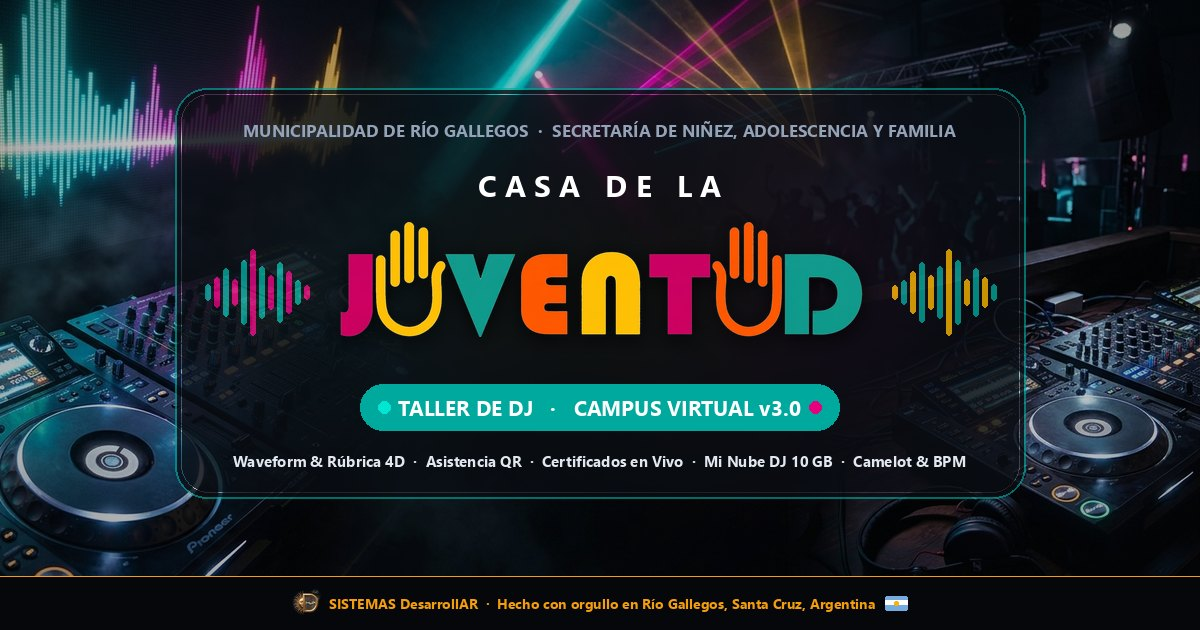
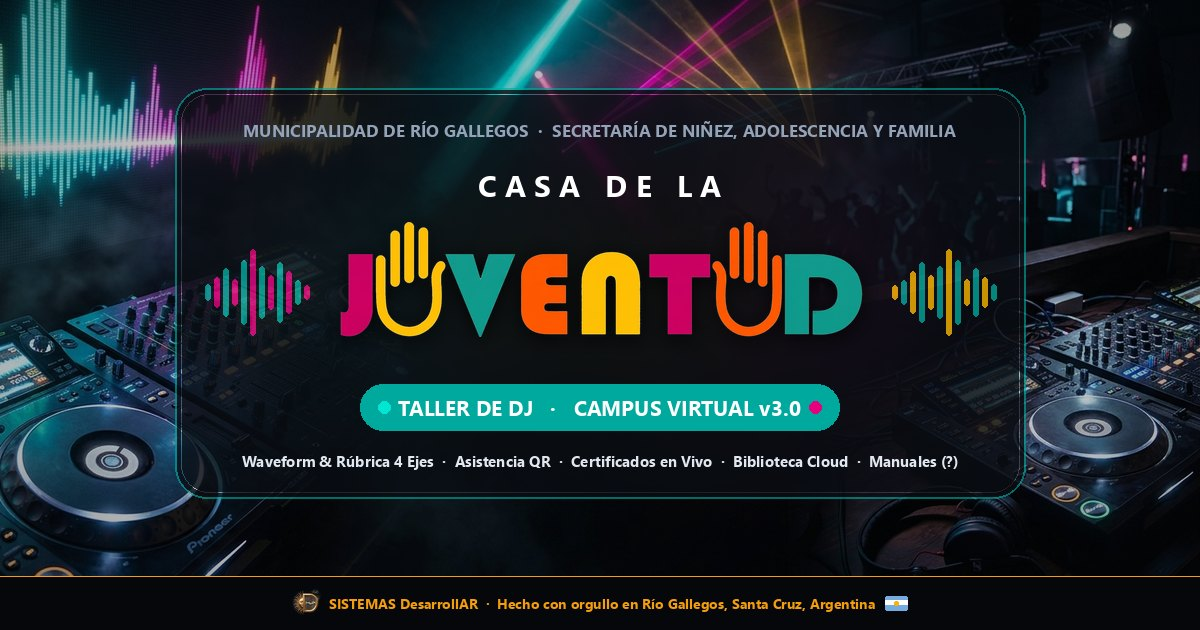
fix(og): align WhatsApp header and OG description with exact Campus v3.0 modules

Changed region(s): [[0.185, 0.7238, 0.8017, 0.754]]

diff --git a/campus.html b/campus.html
@@ -4,22 +4,22 @@
 <meta charset="UTF-8">
 <meta name="viewport" content="width=device-width, initial-scale=1.0">
 <title>Campus Virtual · Taller de DJ | Casa de la Juventud</title>
-<meta name="description" content="Campus Virtual Universitario v3.0 del Taller de DJ — Casa de la Juventud · Municipalidad de Río Gallegos. Corrección por Waveform, Asistencia QR, Certificados en Vivo y Nube DJ.">
+<meta name="description" content="Campus Virtual Universitario v3.0 del Taller de DJ — Casa de la Juventud · Municipalidad de Río Gallegos. Corrección por Waveform, Rúbrica 4 Ejes, Asistencia QR, Certificados en Vivo y Biblioteca Cloud.">
 <meta property="og:type" content="website">
 <meta property="og:site_name" content="Casa de la Juventud · Municipalidad de Río Gallegos">
 <meta property="og:title" content="🎧 Campus Virtual v3.0 · Taller de DJ — Casa de la Juventud">
-<meta property="og:description" content="Plataforma LMS con Waveform & Rúbrica 4D, Asistencia QR en vivo, Certificados Oficiales, Mi Nube DJ (10 GB) y Rueda de Camelot.">
+<meta property="og:description" content="Cabina Waveform & Rúbrica 4 Ejes, Asistencia QR en vivo, Estudio de Certificados QR, Biblioteca Cloud (hasta 100 MB por archivo) y Manuales Interactivos.">
 <meta property="og:url" content="https://cursodj.desarrollar.online/campus">
-<meta property="og:image" content="https://cursodj.desarrollar.online/og-whatsapp-campus.jpg">
-<meta property="og:image:secure_url" content="https://cursodj.desarrollar.online/og-whatsapp-campus.jpg">
+<meta property="og:image" content="https://cursodj.desarrollar.online/og-whatsapp-campus.jpg?v=4">
+<meta property="og:image:secure_url" content="https://cursodj.desarrollar.online/og-whatsapp-campus.jpg?v=4">
 <meta property="og:image:type" content="image/jpeg">
 <meta property="og:image:width" content="1200">
 <meta property="og:image:height" content="630">
-<link rel="image_src" href="https://cursodj.desarrollar.online/og-whatsapp-campus.jpg">
+<link rel="image_src" href="https://cursodj.desarrollar.online/og-whatsapp-campus.jpg?v=4">
 <meta name="twitter:card" content="summary_large_image">
 <meta name="twitter:title" content="🎧 Campus Virtual v3.0 · Taller de DJ — Casa de la Juventud">
-<meta name="twitter:description" content="Plataforma LMS con Waveform & Rúbrica 4D, Asistencia QR en vivo, Certificados Oficiales, Mi Nube DJ (10 GB) y Rueda de Camelot.">
-<meta name="twitter:image" content="https://cursodj.desarrollar.online/og-whatsapp-campus.jpg">
+<meta name="twitter:description" content="Cabina Waveform & Rúbrica 4 Ejes, Asistencia QR en vivo, Estudio de Certificados QR, Biblioteca Cloud (hasta 100 MB por archivo) y Manuales Interactivos.">
+<meta name="twitter:image" content="https://cursodj.desarrollar.online/og-whatsapp-campus.jpg?v=4">
 <script src="https://cdn.tailwindcss.com"></script>
 <link href="https://fonts.googleapis.com/css2?family=Fredoka:wght@500;600;700&family=Outfit:wght@300;400;500;600;800&family=JetBrains+Mono&display=swap" rel="stylesheet">
 <style>

diff --git a/docs/campus.html b/docs/campus.html
@@ -4,22 +4,22 @@
 <meta charset="UTF-8">
 <meta name="viewport" content="width=device-width, initial-scale=1.0">
 <title>Campus Virtual · Taller de DJ | Casa de la Juventud</title>
-<meta name="description" content="Campus Virtual Universitario v3.0 del Taller de DJ — Casa de la Juventud · Municipalidad de Río Gallegos. Corrección por Waveform, Asistencia QR, Certificados en Vivo y Nube DJ.">
+<meta name="description" content="Campus Virtual Universitario v3.0 del Taller de DJ — Casa de la Juventud · Municipalidad de Río Gallegos. Corrección por Waveform, Rúbrica 4 Ejes, Asistencia QR, Certificados en Vivo y Biblioteca Cloud.">
 <meta property="og:type" content="website">
 <meta property="og:site_name" content="Casa de la Juventud · Municipalidad de Río Gallegos">
 <meta property="og:title" content="🎧 Campus Virtual v3.0 · Taller de DJ — Casa de la Juventud">
-<meta property="og:description" content="Plataforma LMS con Waveform & Rúbrica 4D, Asistencia QR en vivo, Certificados Oficiales, Mi Nube DJ (10 GB) y Rueda de Camelot.">
+<meta property="og:description" content="Cabina Waveform & Rúbrica 4 Ejes, Asistencia QR en vivo, Estudio de Certificados QR, Biblioteca Cloud (hasta 100 MB por archivo) y Manuales Interactivos.">
 <meta property="og:url" content="https://cursodj.desarrollar.online/campus">
-<meta property="og:image" content="https://cursodj.desarrollar.online/og-whatsapp-campus.jpg">
-<meta property="og:image:secure_url" content="https://cursodj.desarrollar.online/og-whatsapp-campus.jpg">
+<meta property="og:image" content="https://cursodj.desarrollar.online/og-whatsapp-campus.jpg?v=4">
+<meta property="og:image:secure_url" content="https://cursodj.desarrollar.online/og-whatsapp-campus.jpg?v=4">
 <meta property="og:image:type" content="image/jpeg">
 <meta property="og:image:width" content="1200">
 <meta property="og:image:height" content="630">
-<link rel="image_src" href="https://cursodj.desarrollar.online/og-whatsapp-campus.jpg">
+<link rel="image_src" href="https://cursodj.desarrollar.online/og-whatsapp-campus.jpg?v=4">
 <meta name="twitter:card" content="summary_large_image">
 <meta name="twitter:title" content="🎧 Campus Virtual v3.0 · Taller de DJ — Casa de la Juventud">
-<meta name="twitter:description" content="Plataforma LMS con Waveform & Rúbrica 4D, Asistencia QR en vivo, Certificados Oficiales, Mi Nube DJ (10 GB) y Rueda de Camelot.">
-<meta name="twitter:image" content="https://cursodj.desarrollar.online/og-whatsapp-campus.jpg">
+<meta name="twitter:description" content="Cabina Waveform & Rúbrica 4 Ejes, Asistencia QR en vivo, Estudio de Certificados QR, Biblioteca Cloud (hasta 100 MB por archivo) y Manuales Interactivos.">
+<meta name="twitter:image" content="https://cursodj.desarrollar.online/og-whatsapp-campus.jpg?v=4">
 <script src="https://cdn.tailwindcss.com"></script>
 <link href="https://fonts.googleapis.com/css2?family=Fredoka:wght@500;600;700&family=Outfit:wght@300;400;500;600;800&family=JetBrains+Mono&display=swap" rel="stylesheet">
 <style>

diff --git a/public/campus.html b/public/campus.html
@@ -4,22 +4,22 @@
 <meta charset="UTF-8">
 <meta name="viewport" content="width=device-width, initial-scale=1.0">
 <title>Campus Virtual · Taller de DJ | Casa de la Juventud</title>
-<meta name="description" content="Campus Virtual Universitario v3.0 del Taller de DJ — Casa de la Juventud · Municipalidad de Río Gallegos. Corrección por Waveform, Asistencia QR, Certificados en Vivo y Nube DJ.">
+<meta name="description" content="Campus Virtual Universitario v3.0 del Taller de DJ — Casa de la Juventud · Municipalidad de Río Gallegos. Corrección por Waveform, Rúbrica 4 Ejes, Asistencia QR, Certificados en Vivo y Biblioteca Cloud.">
 <meta property="og:type" content="website">
 <meta property="og:site_name" content="Casa de la Juventud · Municipalidad de Río Gallegos">
 <meta property="og:title" content="🎧 Campus Virtual v3.0 · Taller de DJ — Casa de la Juventud">
-<meta property="og:description" content="Plataforma LMS con Waveform & Rúbrica 4D, Asistencia QR en vivo, Certificados Oficiales, Mi Nube DJ (10 GB) y Rueda de Camelot.">
+<meta property="og:description" content="Cabina Waveform & Rúbrica 4 Ejes, Asistencia QR en vivo, Estudio de Certificados QR, Biblioteca Cloud (hasta 100 MB por archivo) y Manuales Interactivos.">
 <meta property="og:url" content="https://cursodj.desarrollar.online/campus">
-<meta property="og:image" content="https://cursodj.desarrollar.online/og-whatsapp-campus.jpg">
-<meta property="og:image:secure_url" content="https://cursodj.desarrollar.online/og-whatsapp-campus.jpg">
+<meta property="og:image" content="https://cursodj.desarrollar.online/og-whatsapp-campus.jpg?v=4">
+<meta property="og:image:secure_url" content="https://cursodj.desarrollar.online/og-whatsapp-campus.jpg?v=4">
 <meta property="og:image:type" content="image/jpeg">
 <meta property="og:image:width" content="1200">
 <meta property="og:image:height" content="630">
-<link rel="image_src" href="https://cursodj.desarrollar.online/og-whatsapp-campus.jpg">
+<link rel="image_src" href="https://cursodj.desarrollar.online/og-whatsapp-campus.jpg?v=4">
 <meta name="twitter:card" content="summary_large_image">
 <meta name="twitter:title" content="🎧 Campus Virtual v3.0 · Taller de DJ — Casa de la Juventud">
-<meta name="twitter:description" content="Plataforma LMS con Waveform & Rúbrica 4D, Asistencia QR en vivo, Certificados Oficiales, Mi Nube DJ (10 GB) y Rueda de Camelot.">
-<meta name="twitter:image" content="https://cursodj.desarrollar.online/og-whatsapp-campus.jpg">
+<meta name="twitter:description" content="Cabina Waveform & Rúbrica 4 Ejes, Asistencia QR en vivo, Estudio de Certificados QR, Biblioteca Cloud (hasta 100 MB por archivo) y Manuales Interactivos.">
+<meta name="twitter:image" content="https://cursodj.desarrollar.online/og-whatsapp-campus.jpg?v=4">
 <script src="https://cdn.tailwindcss.com"></script>
 <link href="https://fonts.googleapis.com/css2?family=Fredoka:wght@500;600;700&family=Outfit:wght@300;400;500;600;800&family=JetBrains+Mono&display=swap" rel="stylesheet">
 <style>

diff --git a/publish/campus.html b/publish/campus.html
@@ -4,22 +4,22 @@
 <meta charset="UTF-8">
 <meta name="viewport" content="width=device-width, initial-scale=1.0">
 <title>Campus Virtual · Taller de DJ | Casa de la Juventud</title>
-<meta name="description" content="Campus Virtual Universitario v3.0 del Taller de DJ — Casa de la Juventud · Municipalidad de Río Gallegos. Corrección por Waveform, Asistencia QR, Certificados en Vivo y Nube DJ.">
+<meta name="description" content="Campus Virtual Universitario v3.0 del Taller de DJ — Casa de la Juventud · Municipalidad de Río Gallegos. Corrección por Waveform, Rúbrica 4 Ejes, Asistencia QR, Certificados en Vivo y Biblioteca Cloud.">
 <meta property="og:type" content="website">
 <meta property="og:site_name" content="Casa de la Juventud · Municipalidad de Río Gallegos">
 <meta property="og:title" content="🎧 Campus Virtual v3.0 · Taller de DJ — Casa de la Juventud">
-<meta property="og:description" content="Plataforma LMS con Waveform & Rúbrica 4D, Asistencia QR en vivo, Certificados Oficiales, Mi Nube DJ (10 GB) y Rueda de Camelot.">
+<meta property="og:description" content="Cabina Waveform & Rúbrica 4 Ejes, Asistencia QR en vivo, Estudio de Certificados QR, Biblioteca Cloud (hasta 100 MB por archivo) y Manuales Interactivos.">
 <meta property="og:url" content="https://cursodj.desarrollar.online/campus">
-<meta property="og:image" content="https://cursodj.desarrollar.online/og-whatsapp-campus.jpg">
-<meta property="og:image:secure_url" content="https://cursodj.desarrollar.online/og-whatsapp-campus.jpg">
+<meta property="og:image" content="https://cursodj.desarrollar.online/og-whatsapp-campus.jpg?v=4">
+<meta property="og:image:secure_url" content="https://cursodj.desarrollar.online/og-whatsapp-campus.jpg?v=4">
 <meta property="og:image:type" content="image/jpeg">
 <meta property="og:image:width" content="1200">
 <meta property="og:image:height" content="630">
-<link rel="image_src" href="https://cursodj.desarrollar.online/og-whatsapp-campus.jpg">
+<link rel="image_src" href="https://cursodj.desarrollar.online/og-whatsapp-campus.jpg?v=4">
 <meta name="twitter:card" content="summary_large_image">
 <meta name="twitter:title" content="🎧 Campus Virtual v3.0 · Taller de DJ — Casa de la Juventud">
-<meta name="twitter:description" content="Plataforma LMS con Waveform & Rúbrica 4D, Asistencia QR en vivo, Certificados Oficiales, Mi Nube DJ (10 GB) y Rueda de Camelot.">
-<meta name="twitter:image" content="https://cursodj.desarrollar.online/og-whatsapp-campus.jpg">
+<meta name="twitter:description" content="Cabina Waveform & Rúbrica 4 Ejes, Asistencia QR en vivo, Estudio de Certificados QR, Biblioteca Cloud (hasta 100 MB por archivo) y Manuales Interactivos.">
+<meta name="twitter:image" content="https://cursodj.desarrollar.online/og-whatsapp-campus.jpg?v=4">
 <script src="https://cdn.tailwindcss.com"></script>
 <link href="https://fonts.googleapis.com/css2?family=Fredoka:wght@500;600;700&family=Outfit:wght@300;400;500;600;800&family=JetBrains+Mono&display=swap" rel="stylesheet">
 <style>

diff --git a/docs/index.html b/docs/index.html
@@ -4,14 +4,14 @@
 <meta charset="UTF-8">
 <meta name="viewport" content="width=device-width, initial-scale=1.0">
 <title>Taller de DJ | Casa de la Juventud</title>
-<meta name="description" content="Taller de DJ e Iniciación Musical — Casa de la Juventud · Municipalidad de Río Gallegos. Campus Virtual v3.0 con Waveform, Asistencia QR, Certificados y Nube DJ.">
+<meta name="description" content="Taller de DJ e Iniciación Musical — Casa de la Juventud · Municipalidad de Río Gallegos. Campus Virtual v3.0 con Waveform, Asistencia QR, Certificados y Biblioteca Cloud.">
 <meta property="og:type" content="website">
 <meta property="og:site_name" content="Casa de la Juventud · Municipalidad de Río Gallegos">
 <meta property="og:title" content="🎧 Taller de DJ · Casa de la Juventud — Río Gallegos">
 <meta property="og:description" content="Formación gratuita en mezcla digital, técnica y criterio musical + Campus Virtual Universitario v3.0.">
 <meta property="og:url" content="https://cursodj.desarrollar.online">
-<meta property="og:image" content="https://cursodj.desarrollar.online/og-whatsapp-campus.jpg">
-<meta property="og:image:secure_url" content="https://cursodj.desarrollar.online/og-whatsapp-campus.jpg">
+<meta property="og:image" content="https://cursodj.desarrollar.online/og-whatsapp-campus.jpg?v=4">
+<meta property="og:image:secure_url" content="https://cursodj.desarrollar.online/og-whatsapp-campus.jpg?v=4">
 <meta property="og:image:type" content="image/jpeg">
 <meta property="og:image:width" content="1200">
 <meta property="og:image:height" content="630">

diff --git a/index.html b/index.html
@@ -4,14 +4,14 @@
 <meta charset="UTF-8">
 <meta name="viewport" content="width=device-width, initial-scale=1.0">
 <title>Taller de DJ | Casa de la Juventud</title>
-<meta name="description" content="Taller de DJ e Iniciación Musical — Casa de la Juventud · Municipalidad de Río Gallegos. Campus Virtual v3.0 con Waveform, Asistencia QR, Certificados y Nube DJ.">
+<meta name="description" content="Taller de DJ e Iniciación Musical — Casa de la Juventud · Municipalidad de Río Gallegos. Campus Virtual v3.0 con Waveform, Asistencia QR, Certificados y Biblioteca Cloud.">
 <meta property="og:type" content="website">
 <meta property="og:site_name" content="Casa de la Juventud · Municipalidad de Río Gallegos">
 <meta property="og:title" content="🎧 Taller de DJ · Casa de la Juventud — Río Gallegos">
 <meta property="og:description" content="Formación gratuita en mezcla digital, técnica y criterio musical + Campus Virtual Universitario v3.0.">
 <meta property="og:url" content="https://cursodj.desarrollar.online">
-<meta property="og:image" content="https://cursodj.desarrollar.online/og-whatsapp-campus.jpg">
-<meta property="og:image:secure_url" content="https://cursodj.desarrollar.online/og-whatsapp-campus.jpg">
+<meta property="og:image" content="https://cursodj.desarrollar.online/og-whatsapp-campus.jpg?v=4">
+<meta property="og:image:secure_url" content="https://cursodj.desarrollar.online/og-whatsapp-campus.jpg?v=4">
 <meta property="og:image:type" content="image/jpeg">
 <meta property="og:image:width" content="1200">
 <meta property="og:image:height" content="630">

diff --git a/public/index.html b/public/index.html
@@ -4,14 +4,14 @@
 <meta charset="UTF-8">
 <meta name="viewport" content="width=device-width, initial-scale=1.0">
 <title>Taller de DJ | Casa de la Juventud</title>
-<meta name="description" content="Taller de DJ e Iniciación Musical — Casa de la Juventud · Municipalidad de Río Gallegos. Campus Virtual v3.0 con Waveform, Asistencia QR, Certificados y Nube DJ.">
+<meta name="description" content="Taller de DJ e Iniciación Musical — Casa de la Juventud · Municipalidad de Río Gallegos. Campus Virtual v3.0 con Waveform, Asistencia QR, Certificados y Biblioteca Cloud.">
 <meta property="og:type" content="website">
 <meta property="og:site_name" content="Casa de la Juventud · Municipalidad de Río Gallegos">
 <meta property="og:title" content="🎧 Taller de DJ · Casa de la Juventud — Río Gallegos">
 <meta property="og:description" content="Formación gratuita en mezcla digital, técnica y criterio musical + Campus Virtual Universitario v3.0.">
 <meta property="og:url" content="https://cursodj.desarrollar.online">
-<meta property="og:image" content="https://cursodj.desarrollar.online/og-whatsapp-campus.jpg">
-<meta property="og:image:secure_url" content="https://cursodj.desarrollar.online/og-whatsapp-campus.jpg">
+<meta property="og:image" content="https://cursodj.desarrollar.online/og-whatsapp-campus.jpg?v=4">
+<meta property="og:image:secure_url" content="https://cursodj.desarrollar.online/og-whatsapp-campus.jpg?v=4">
 <meta property="og:image:type" content="image/jpeg">
 <meta property="og:image:width" content="1200">
 <meta property="og:image:height" content="630">

diff --git a/publish/index.html b/publish/index.html
@@ -4,14 +4,14 @@
 <meta charset="UTF-8">
 <meta name="viewport" content="width=device-width, initial-scale=1.0">
 <title>Taller de DJ | Casa de la Juventud</title>
-<meta name="description" content="Taller de DJ e Iniciación Musical — Casa de la Juventud · Municipalidad de Río Gallegos. Campus Virtual v3.0 con Waveform, Asistencia QR, Certificados y Nube DJ.">
+<meta name="description" content="Taller de DJ e Iniciación Musical — Casa de la Juventud · Municipalidad de Río Gallegos. Campus Virtual v3.0 con Waveform, Asistencia QR, Certificados y Biblioteca Cloud.">
 <meta property="og:type" content="website">
 <meta property="og:site_name" content="Casa de la Juventud · Municipalidad de Río Gallegos">
 <meta property="og:title" content="🎧 Taller de DJ · Casa de la Juventud — Río Gallegos">
 <meta property="og:description" content="Formación gratuita en mezcla digital, técnica y criterio musical + Campus Virtual Universitario v3.0.">
 <meta property="og:url" content="https://cursodj.desarrollar.online">
-<meta property="og:image" content="https://cursodj.desarrollar.online/og-whatsapp-campus.jpg">
-<meta property="og:image:secure_url" content="https://cursodj.desarrollar.online/og-whatsapp-campus.jpg">
+<meta property="og:image" content="https://cursodj.desarrollar.online/og-whatsapp-campus.jpg?v=4">
+<meta property="og:image:secure_url" content="https://cursodj.desarrollar.online/og-whatsapp-campus.jpg?v=4">
 <meta property="og:image:type" content="image/jpeg">
 <meta property="og:image:width" content="1200">
 <meta property="og:image:height" content="630">

diff --git a/docs/verificar.html b/docs/verificar.html
@@ -7,10 +7,10 @@
 <meta property="og:type" content="website">
 <meta property="og:site_name" content="Casa de la Juventud · Municipalidad de Río Gallegos">
 <meta property="og:title" content="🎧 Campus Virtual v3.0 · Taller de DJ — Casa de la Juventud">
-<meta property="og:description" content="Plataforma LMS con Waveform & Rúbrica 4D, Asistencia QR en vivo, Certificados Oficiales, Mi Nube DJ (10 GB) y Rueda de Camelot.">
+<meta property="og:description" content="Cabina Waveform & Rúbrica 4 Ejes, Asistencia QR en vivo, Estudio de Certificados QR, Biblioteca Cloud (hasta 100 MB por archivo) y Manuales Interactivos.">
 <meta property="og:url" content="https://cursodj.desarrollar.online/campus">
-<meta property="og:image" content="https://cursodj.desarrollar.online/og-whatsapp-campus.jpg">
-<meta property="og:image:secure_url" content="https://cursodj.desarrollar.online/og-whatsapp-campus.jpg">
+<meta property="og:image" content="https://cursodj.desarrollar.online/og-whatsapp-campus.jpg?v=4">
+<meta property="og:image:secure_url" content="https://cursodj.desarrollar.online/og-whatsapp-campus.jpg?v=4">
 <meta property="og:image:type" content="image/jpeg">
 <meta property="og:image:width" content="1200">
 <meta property="og:image:height" content="630">

diff --git a/public/verificar.html b/public/verificar.html
@@ -7,10 +7,10 @@
 <meta property="og:type" content="website">
 <meta property="og:site_name" content="Casa de la Juventud · Municipalidad de Río Gallegos">
 <meta property="og:title" content="🎧 Campus Virtual v3.0 · Taller de DJ — Casa de la Juventud">
-<meta property="og:description" content="Plataforma LMS con Waveform & Rúbrica 4D, Asistencia QR en vivo, Certificados Oficiales, Mi Nube DJ (10 GB) y Rueda de Camelot.">
+<meta property="og:description" content="Cabina Waveform & Rúbrica 4 Ejes, Asistencia QR en vivo, Estudio de Certificados QR, Biblioteca Cloud (hasta 100 MB por archivo) y Manuales Interactivos.">
 <meta property="og:url" content="https://cursodj.desarrollar.online/campus">
-<meta property="og:image" content="https://cursodj.desarrollar.online/og-whatsapp-campus.jpg">
-<meta property="og:image:secure_url" content="https://cursodj.desarrollar.online/og-whatsapp-campus.jpg">
+<meta property="og:image" content="https://cursodj.desarrollar.online/og-whatsapp-campus.jpg?v=4">
+<meta property="og:image:secure_url" content="https://cursodj.desarrollar.online/og-whatsapp-campus.jpg?v=4">
 <meta property="og:image:type" content="image/jpeg">
 <meta property="og:image:width" content="1200">
 <meta property="og:image:height" content="630">

diff --git a/publish/verificar.html b/publish/verificar.html
@@ -7,10 +7,10 @@
 <meta property="og:type" content="website">
 <meta property="og:site_name" content="Casa de la Juventud · Municipalidad de Río Gallegos">
 <meta property="og:title" content="🎧 Campus Virtual v3.0 · Taller de DJ — Casa de la Juventud">
-<meta property="og:description" content="Plataforma LMS con Waveform & Rúbrica 4D, Asistencia QR en vivo, Certificados Oficiales, Mi Nube DJ (10 GB) y Rueda de Camelot.">
+<meta property="og:description" content="Cabina Waveform & Rúbrica 4 Ejes, Asistencia QR en vivo, Estudio de Certificados QR, Biblioteca Cloud (hasta 100 MB por archivo) y Manuales Interactivos.">
 <meta property="og:url" content="https://cursodj.desarrollar.online/campus">
-<meta property="og:image" content="https://cursodj.desarrollar.online/og-whatsapp-campus.jpg">
-<meta property="og:image:secure_url" content="https://cursodj.desarrollar.online/og-whatsapp-campus.jpg">
+<meta property="og:image" content="https://cursodj.desarrollar.online/og-whatsapp-campus.jpg?v=4">
+<meta property="og:image:secure_url" content="https://cursodj.desarrollar.online/og-whatsapp-campus.jpg?v=4">
 <meta property="og:image:type" content="image/jpeg">
 <meta property="og:image:width" content="1200">
 <meta property="og:image:height" content="630">

diff --git a/verificar.html b/verificar.html
@@ -7,10 +7,10 @@
 <meta property="og:type" content="website">
 <meta property="og:site_name" content="Casa de la Juventud · Municipalidad de Río Gallegos">
 <meta property="og:title" content="🎧 Campus Virtual v3.0 · Taller de DJ — Casa de la Juventud">
-<meta property="og:description" content="Plataforma LMS con Waveform & Rúbrica 4D, Asistencia QR en vivo, Certificados Oficiales, Mi Nube DJ (10 GB) y Rueda de Camelot.">
+<meta property="og:description" content="Cabina Waveform & Rúbrica 4 Ejes, Asistencia QR en vivo, Estudio de Certificados QR, Biblioteca Cloud (hasta 100 MB por archivo) y Manuales Interactivos.">
 <meta property="og:url" content="https://cursodj.desarrollar.online/campus">
-<meta property="og:image" content="https://cursodj.desarrollar.online/og-whatsapp-campus.jpg">
-<meta property="og:image:secure_url" content="https://cursodj.desarrollar.online/og-whatsapp-campus.jpg">
+<meta property="og:image" content="https://cursodj.desarrollar.online/og-whatsapp-campus.jpg?v=4">
+<meta property="og:image:secure_url" content="https://cursodj.desarrollar.online/og-whatsapp-campus.jpg?v=4">
 <meta property="og:image:type" content="image/jpeg">
 <meta property="og:image:width" content="1200">
 <meta property="og:image:height" content="630">
